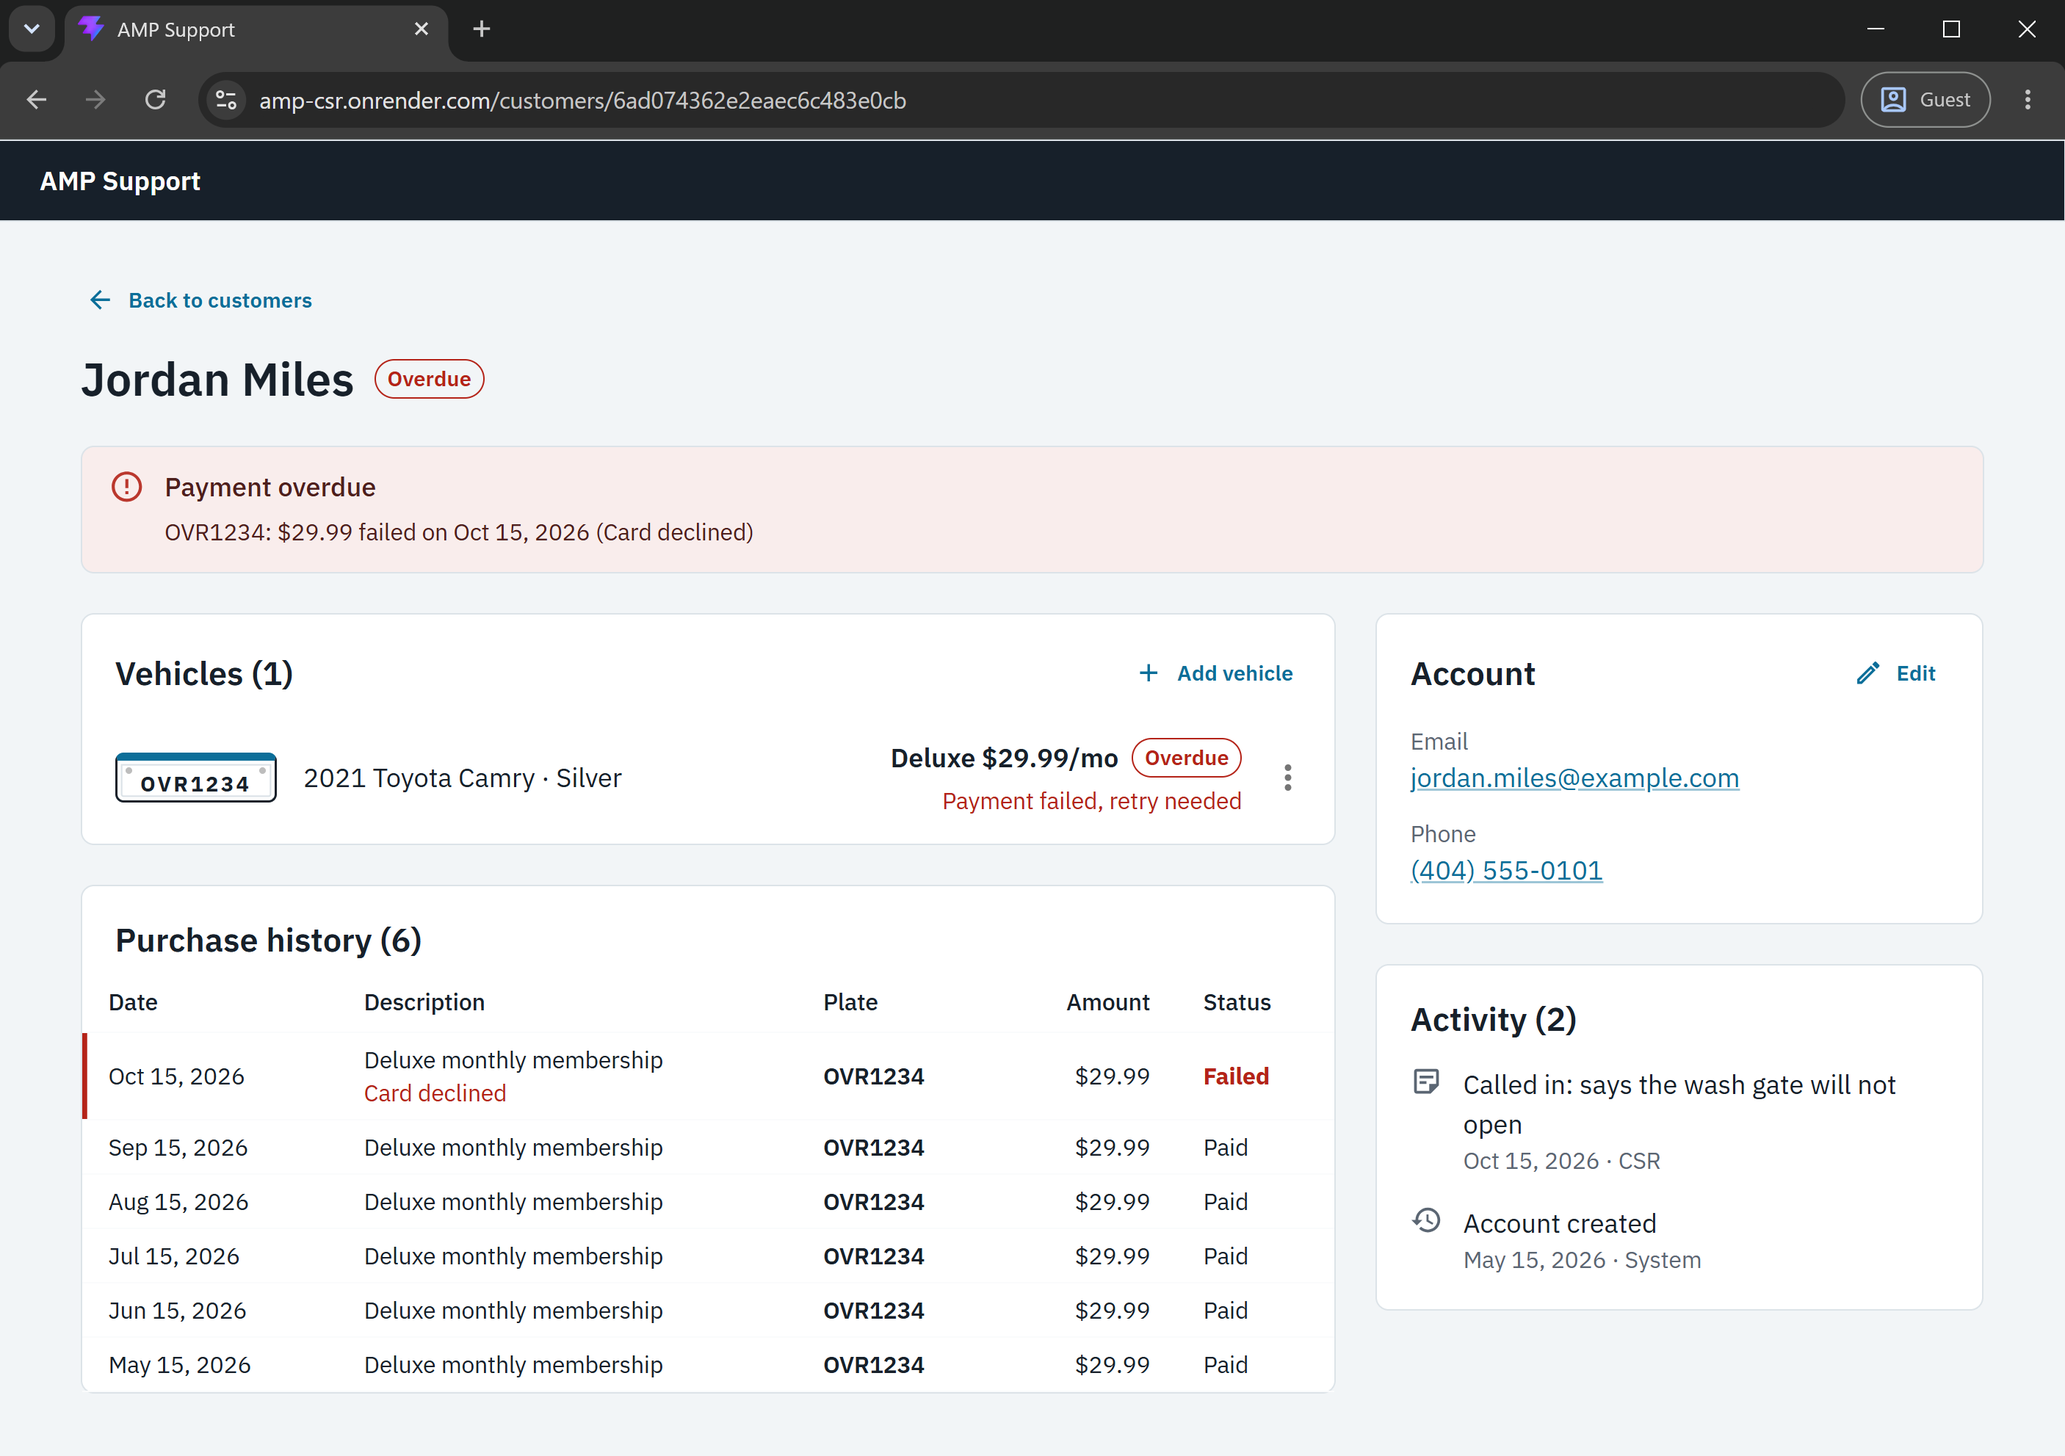
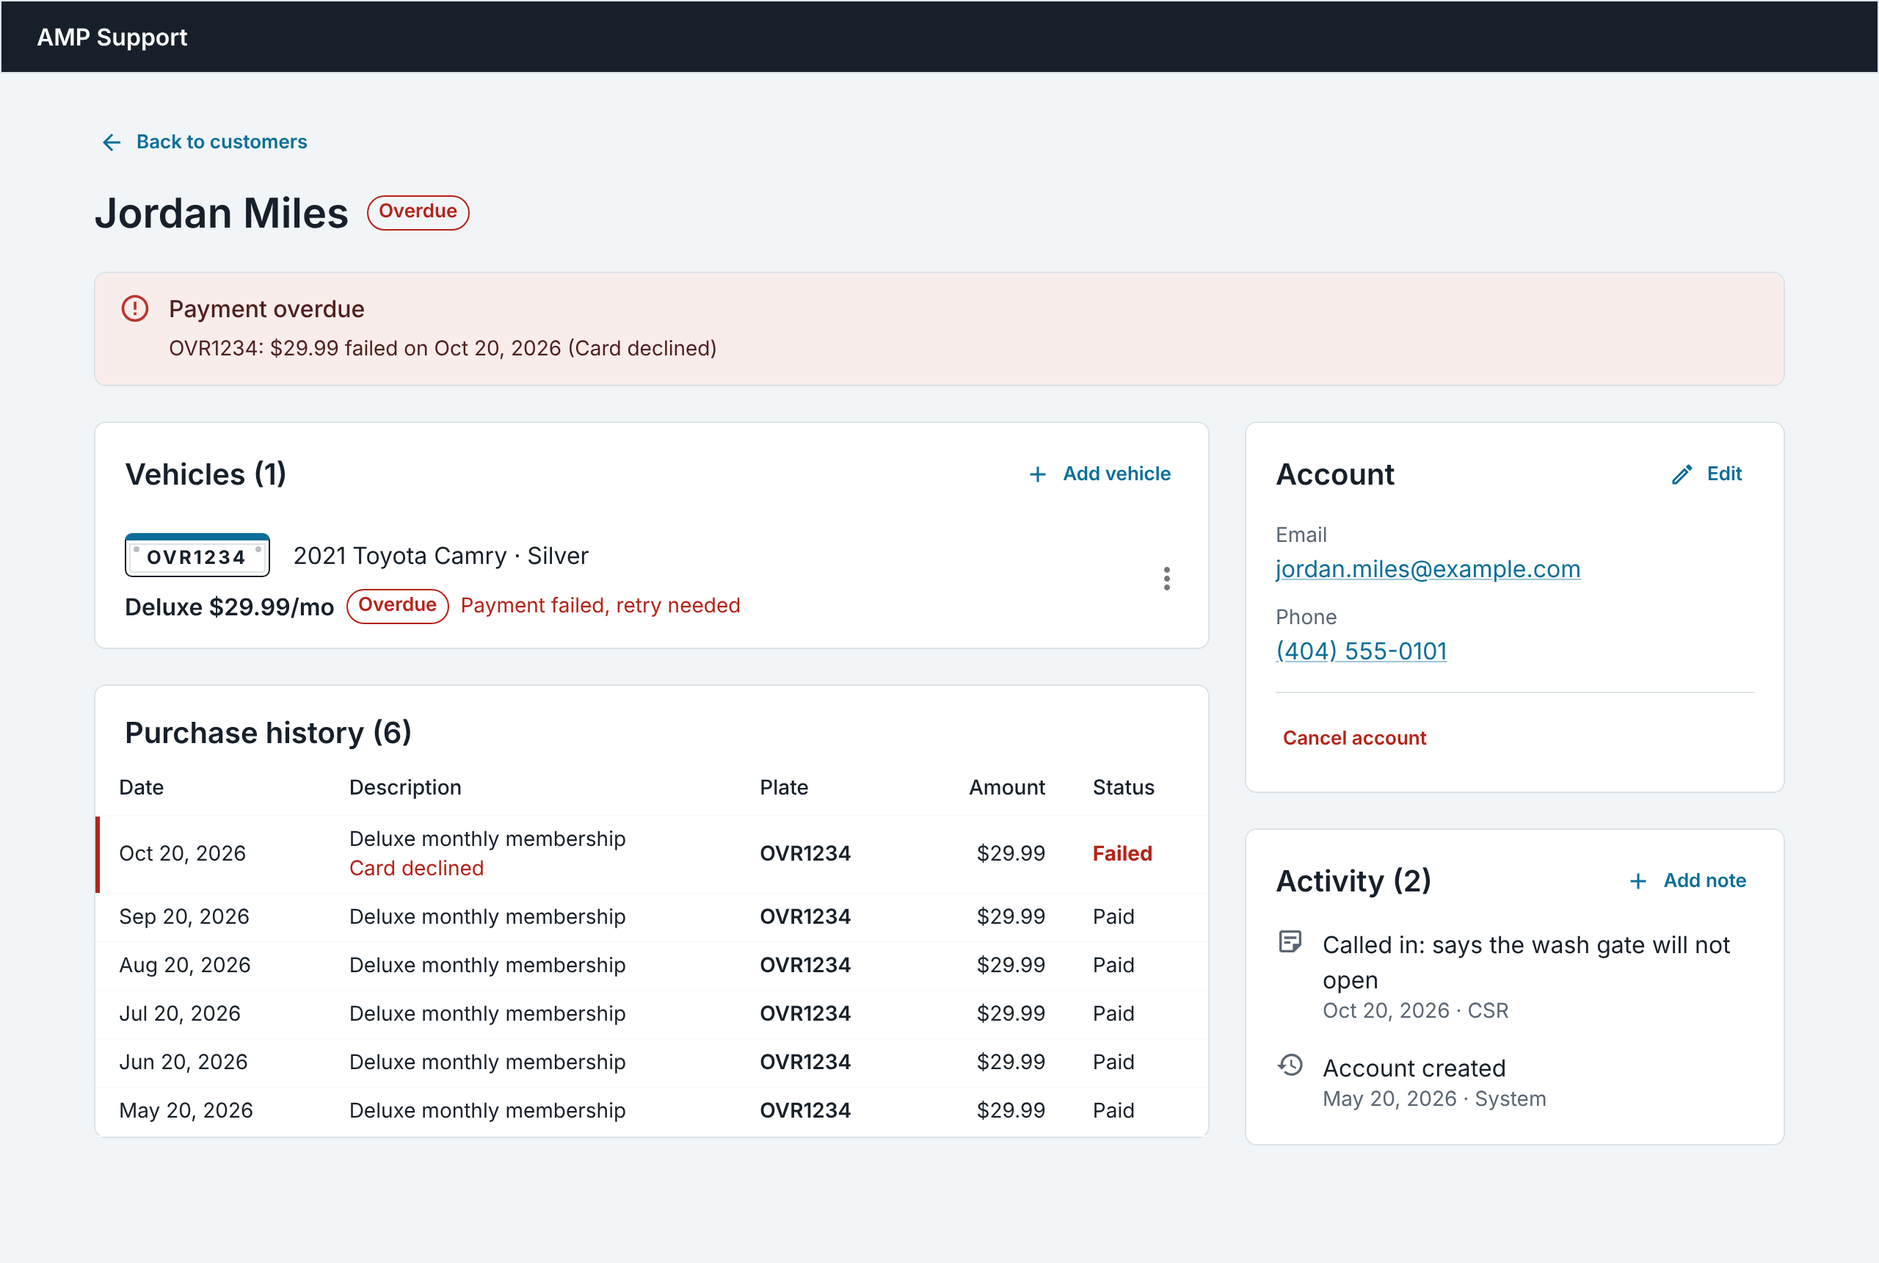
Update READMEs for the new subscription actions, tests, and limitations
- Requirements table covers start, change plan, transfer, and cancel; new table maps the four support calls
- Beyond the brief, Try it, structure, and key decisions match the current app
- Known limitations name the real gaps: write ordering, immediate cancel, refunds, billing day, hard delete
- npm test from the root; DNS_SERVERS documented; new screenshot

diff --git a/README.md b/README.md
@@ -9,12 +9,21 @@ No login needed. All customers are generated demo data.
 
 ## What it does
 
-| Requirement                         | Where                                                                                                                                          |
-| ----------------------------------- | ---------------------------------------------------------------------------------------------------------------------------------------------- |
-| View a list of users                | Customer list: paginated table with name, email, phone, plates, and status                                                                     |
-| Find and view a user's details      | One search box for name, email, phone, or plate. The detail page shows account info, vehicles with memberships, purchase history, and activity |
-| Edit account info                   | **Edit** on the Account card: name, email, phone                                                                                               |
-| View and edit vehicle subscriptions | Vehicles card: add a vehicle (optionally with a plan), remove it, or transfer its membership to another car                                    |
+| Requirement                         | Where                                                                                                                                                      |
+| ----------------------------------- | ---------------------------------------------------------------------------------------------------------------------------------------------------------- |
+| View a list of users                | Customer list: paginated table with name, email, phone, plates, and status                                                                                 |
+| Find and view a user's details      | One search box for name, email, phone, or plate. The detail page shows account info, vehicles with memberships, purchase history, and activity             |
+| Edit account info                   | **Edit** on the Account card: name, email, phone                                                                                                           |
+| View and edit vehicle subscriptions | Each vehicle's ⋮ menu: **start** a membership, **change plan**, **transfer** it to another car, or **cancel** it. Vehicles are added and removed there too |
+
+### The four support calls
+
+| Call                                                                | How a CSR handles it                                                                                                                      |
+| ------------------------------------------------------------------- | ----------------------------------------------------------------------------------------------------------------------------------------- | --- | --- |
+| "I want to cancel my account."                                      | **Cancel account** on the Account card ends every membership in one step, with a reason. For one car, **Cancel membership** in its ⋮ menu |
+| "I have a question about a recent purchase."                        | Purchase history: date, description, plate, amount, status, and why a charge failed                                                       |
+| "I purchased a new vehicle and I want my subscription transferred." | ⋮ → **Transfer membership** → a new vehicle, optionally removing the old car in the same step                                             |
+| "I am not able to get a wash." (overdue)                            | The overdue banner says which car, how much, when, and why; ⋮ → **Retry payment**                                                         |     |     |
 
 ### Beyond the brief
 
@@ -22,23 +31,26 @@ No login needed. All customers are generated demo data.
 - **Search, tab, and page live in the URL**, so refresh, the back button, and shared links keep the CSR's place, and "Back to customers" returns to the same results
 - **Overdue banner** on the detail page showing which car, how much, when, and why the charge failed
 - **Activity log**: every change is recorded automatically with what it was before and after
-- **Guarded actions**: a vehicle with a live membership can't be removed until it's cancelled or transferred, and the menu says why instead of just greying it out
-- **Charge warning**: adding a vehicle with a plan says "Charges $29.99 today" before the CSR confirms
+- **Every vehicle action in one place**: the ⋮ menu groups actions into Membership, Payment, and Vehicle. Unavailable actions stay visible with the reason (for example "Cancel or transfer the membership first"), and keyboard and screen reader users can reach those reasons too
+- **Plan cards**: starting a membership or changing plans shows the plans side by side with what each includes, so the CSR can explain the difference. The button says what happens to the money: "Start and charge $29.99", or no charge today for a plan change
 - **Transfer options**: move a membership to an existing car or a new one, and optionally remove the old car in the same step (the "I sold my car" call)
-- **Retry payment**: an overdue membership can be retried from the vehicle's ⋮ menu, with a confirm that shows the amount before charging
-- **CSR notes**: CSRs can leave notes on the account for whoever takes the next call, shown in the activity log alongside automatic changes
+- **Retry payment** for an overdue membership, with a confirm that shows the amount before charging
+- **Cancel account** for customers with several cars: one step that ends every membership in a single save, warns about unpaid charges, and keeps the account and history so the customer can rejoin
+- **CSR notes** on the account for whoever takes the next call, shown in the activity log alongside automatic changes
+- **Two CSRs, one customer**: if the account changed elsewhere since the page loaded, the save is rejected, the dialog says so, and the page quietly reloads the latest data
 - Validation on both the client (instant feedback) and the server (the source of truth), with server errors shown in the dialog without losing what was typed
+- **Unit tests** for the billing, status, search, and error rules (`npm test`)
 
 ## Try it
 
 The seed includes one customer for each common support call:
 
-| Customer     | Situation                            | Try                                                                                    |
-| ------------ | ------------------------------------ | -------------------------------------------------------------------------------------- |
+| Customer     | Situation                            | Try                                                                                                                                                   |
+| ------------ | ------------------------------------ | ----------------------------------------------------------------------------------------------------------------------------------------------------- |
 | Jordan Miles | Overdue: latest charge declined      | Retry his payment from the ⋮ menu and watch the banner clear. Or add a second car and transfer his membership to it; the overdue status moves with it |
-| Priya Shah   | Two cars, both on active memberships | Try to remove a car (blocked, with the reason). Transfer one membership to a new car   |
-| Marcus Bell  | Cancelled membership                 | Remove his car (allowed, since the membership is cancelled)                            |
-| Elena Ruiz   | No membership, single washes only    | Add a car with a plan and watch the charge appear in purchase history                  |
+| Priya Shah   | Two cars, both on active memberships | Try to remove a car (blocked, with the reason). Transfer one membership to a new car. Or **Cancel account** to end both in one step                   |
+| Marcus Bell  | Cancelled membership                 | Start a new membership on his car, or remove it (allowed, since the membership is cancelled)                                                          |
+| Elena Ruiz   | No membership, single washes only    | Add a car, then start a membership from its ⋮ menu and watch the charge appear in purchase history                                                    |
 
 Searching `404 555` finds all four by phone. Searching a plate like `ovr-1234` works too.
 
@@ -58,9 +70,10 @@ npm run install-all
 cp server/.env.example server/.env   # then set MONGODB_URI
 npm run seed                         # loads demo data (replaces existing data)
 npm run dev                          # client on http://localhost:5173, API on :3001
+npm test                             # server unit tests
 ```
 
-In development, Vite proxies `/api` to the Express server. For a production build: `npm run build`, then `NODE_ENV=production npm start`.
+In development, Vite proxies `/api` to the Express server. For a production build: `npm run build`, then `NODE_ENV=production npm start`. If your network can't resolve the Atlas address (seen on some Windows setups), set `DNS_SERVERS=8.8.8.8,1.1.1.1` in `server/.env`.
 
 ## Project structure
 
@@ -68,16 +81,17 @@ In development, Vite proxies `/api` to the Express server. For a production buil
 client/src/
   api/          fetch wrapper (ApiError) and one function per endpoint
   pages/        CustomerListPage, CustomerDetailPage
-  components/   shared pieces (FormDialog, StatusChip, PlateBadge)
-    customer/   account card and edit dialog, purchases, activity and notes, overdue banner
-    vehicle/    vehicle rows and the add, remove, transfer, and retry-payment dialogs
+  components/   shared pieces (FormDialog, CancelReasonField, StatusChip, PlateBadge)
+    customer/   account card with the edit and cancel-account dialogs, purchases, activity and notes, overdue banner
+    vehicle/    vehicle rows and their actions menu, plan cards, and the dialogs for each action
   hooks/        useDebounce, useVehicleForm
   utils/        formatting and form validation
 server/
   models/       Customer (vehicles and subscriptions embedded), Purchase, Activity
   routes/       URL to controller mapping only
-  controllers/  request handling and business rules
-  utils/        shared helpers (HttpError, findCustomer, plans, ...)
+  controllers/  request handling
+  utils/        business rules and shared helpers (status, billing dates, cancellation, search, ...)
+  tests/        unit tests (Vitest, Supertest)
   seeds/        reproducible demo data (Faker with a fixed seed)
 ```
 
@@ -86,22 +100,29 @@ Full API reference: [server/README.md](server/README.md)
 ## Key decisions
 
 - **Vehicles and subscriptions are embedded in the customer.** They're few per customer and always shown together, so one query loads the whole page. Purchases and activity are separate collections because they grow without limit. Each purchase keeps a snapshot of the plate, so receipts stay accurate after a transfer or removal.
-- **Customer status is derived, not stored by hand.** A save hook recalculates it from the subscriptions (overdue beats active beats inactive), so it can't drift out of sync.
+- **Customer status is derived, not stored by hand.** A plain function (`deriveCustomerStatus`) runs on every save and recalculates it from the subscriptions (overdue beats active beats inactive), so it can't drift out of sync, and the rule is unit tested.
 - **Money is in cents, and the price is locked onto the subscription** at signup, so a future plan price change doesn't affect existing members.
 - **Transfers keep the membership exactly as it is**, including an overdue status, so a customer can't escape a failed payment by switching cars.
 - **The URL is the single source of truth for the list.** Search, status, and page are read from the URL, and the search box writes to it after a 300ms pause.
 - **After a save, the detail page refetches quietly.** A write can also add activity entries or purchases, so reloading everything is simpler and safer than patching pieces of local state. The current data stays on screen meanwhile, so there's no spinner flash.
 - **One shared dialog shell (`FormDialog`)** handles the error alert, saving spinner, and blocking close mid-save, so each dialog only defines its fields and what happens on submit.
 - **One deployed service.** Express serves the built React app with a fallback to `index.html` for client-side routes, so there's one URL, no CORS setup, and the client calls a relative `/api`.
-- **Optimistic concurrency on customers.** Every save checks the document's version, so two simultaneous requests (two CSRs, two tabs, a network retry) can't both apply. The second gets a 409 and is asked to refresh. Since the customer is saved before any charge is recorded, this also prevents a double charge on "retry payment".
+- **Optimistic concurrency on customers.** Every save checks the document's version, so two simultaneous requests (two CSRs, two tabs, a network retry) can't both apply. The second gets a 409, and the client reloads the latest data. This also stops a double click on "retry payment" from charging twice.
+- **Adding a car and starting a membership are separate steps**, so the flow is the same whether the car is new or has been on the account for years.
+- **Cancelling an account ends memberships; it doesn't delete anything.** Every membership is cancelled in one save, so it can't half-succeed, and the account, vehicles, purchases, and activity stay for the next call or a rejoin.
 
 ## Known limitations and next steps
 
-- **Automated tests.** There are none yet. I'd start with the server's business rules (transfer, the remove guard, derived status) using Vitest and an in-memory MongoDB, then a few end-to-end flows with Playwright.
-- **Plan changes in the UI.** The API already supports starting, changing, and cancelling memberships (see [server/README.md](server/README.md)); the UI doesn't expose them yet.
+- **Integration tests.** Unit tests cover the pure business rules (`npm test`). Next would be API tests for transfer, the remove guard, and retry against an in-memory MongoDB, then a few end-to-end flows with Playwright.
+- **Write ordering and transactions.** A membership write saves the customer first, then records the purchase and activity separately. If the purchase insert failed, the membership would be active without a recorded charge. With a real payment provider I'd charge first (with an idempotency key), then update the membership, and wrap the writes in a MongoDB transaction.
+- **Payments are simulated.** Every charge succeeds except the seeded failures. A real version would use a payment provider and add a card-update flow, since retrying an expired card won't work.
+- **Cancellation is immediate.** There's no end-of-period cancellation or prorated refund. A production version would schedule the cancellation for the end of the paid period.
+- **Refunds.** Purchases can be viewed but not refunded. The purchase model already has `refunded` and `refundReason` fields for a refund action.
+- **Unpaid balances.** Cancelling keeps a failed charge in purchase history, but nothing tracks an outstanding balance on the account.
+- **Billing day.** Month-end dates are clamped (Jan 31 + 1 month = Feb 28), but a member who joined on the 31st then bills on the 28th from then on. Storing the original billing day would bring it back to the 31st when the month allows.
 - **Authentication.** There's no login, and every change is logged as "CSR". In production the author would come from the signed-in user, with roles for who can cancel or refund.
-- **Transactions.** Optimistic concurrency stops conflicting writes to a customer, but a write still saves the customer, then the purchase and activity record separately. A crash in between could leave them out of sync; a MongoDB transaction would make them all-or-nothing.
-- **Payments are simulated.** The seed creates failed charges, but no real card is charged. A real version would use a payment provider and a card-update flow.
+- **Vehicle removal is a hard delete.** Purchases keep a snapshot of the plate, but the removed plate is no longer searchable. A soft delete would keep it findable for billing questions.
+- **Dates use the browser's time zone.** Billing dates should show in the account's time zone, so every CSR quotes the same date.
 - **Search at scale.** Regex search is fine for a demo but doesn't scale; Atlas Search would.
 - **Shared types.** Plan definitions and API types are mirrored between the client and server. At scale both would import them from a shared package.
 - **A plate can be on two accounts.** Cars get sold, so this is allowed, but two live memberships on one car across accounts could be abused and would deserve a check.

diff --git a/server/README.md b/server/README.md
@@ -17,6 +17,7 @@ npm run dev            # starts the API on http://localhost:3001
 | ------------- | ------------------------------------------------------------------- |
 | `MONGODB_URI` | MongoDB connection string, including the database name (`/amp_csr`) |
 | `PORT`        | Port for the API. Defaults to `3001`                                |
+| `DNS_SERVERS` | Optional. Comma-separated DNS servers for networks that can't resolve the Atlas address (e.g. `8.8.8.8,1.1.1.1`). Leave unset in production |
 
 ### Scripts
 
@@ -27,6 +28,7 @@ npm run dev            # starts the API on http://localhost:3001
 | `npm start`         | Runs the compiled build                                   |
 | `npm run seed`      | Clears all collections and loads demo data                |
 | `npm run typecheck` | Type-checks without emitting files                        |
+| `npm test`          | Runs the unit tests (Vitest)                              |
 
 ## Data model
 
